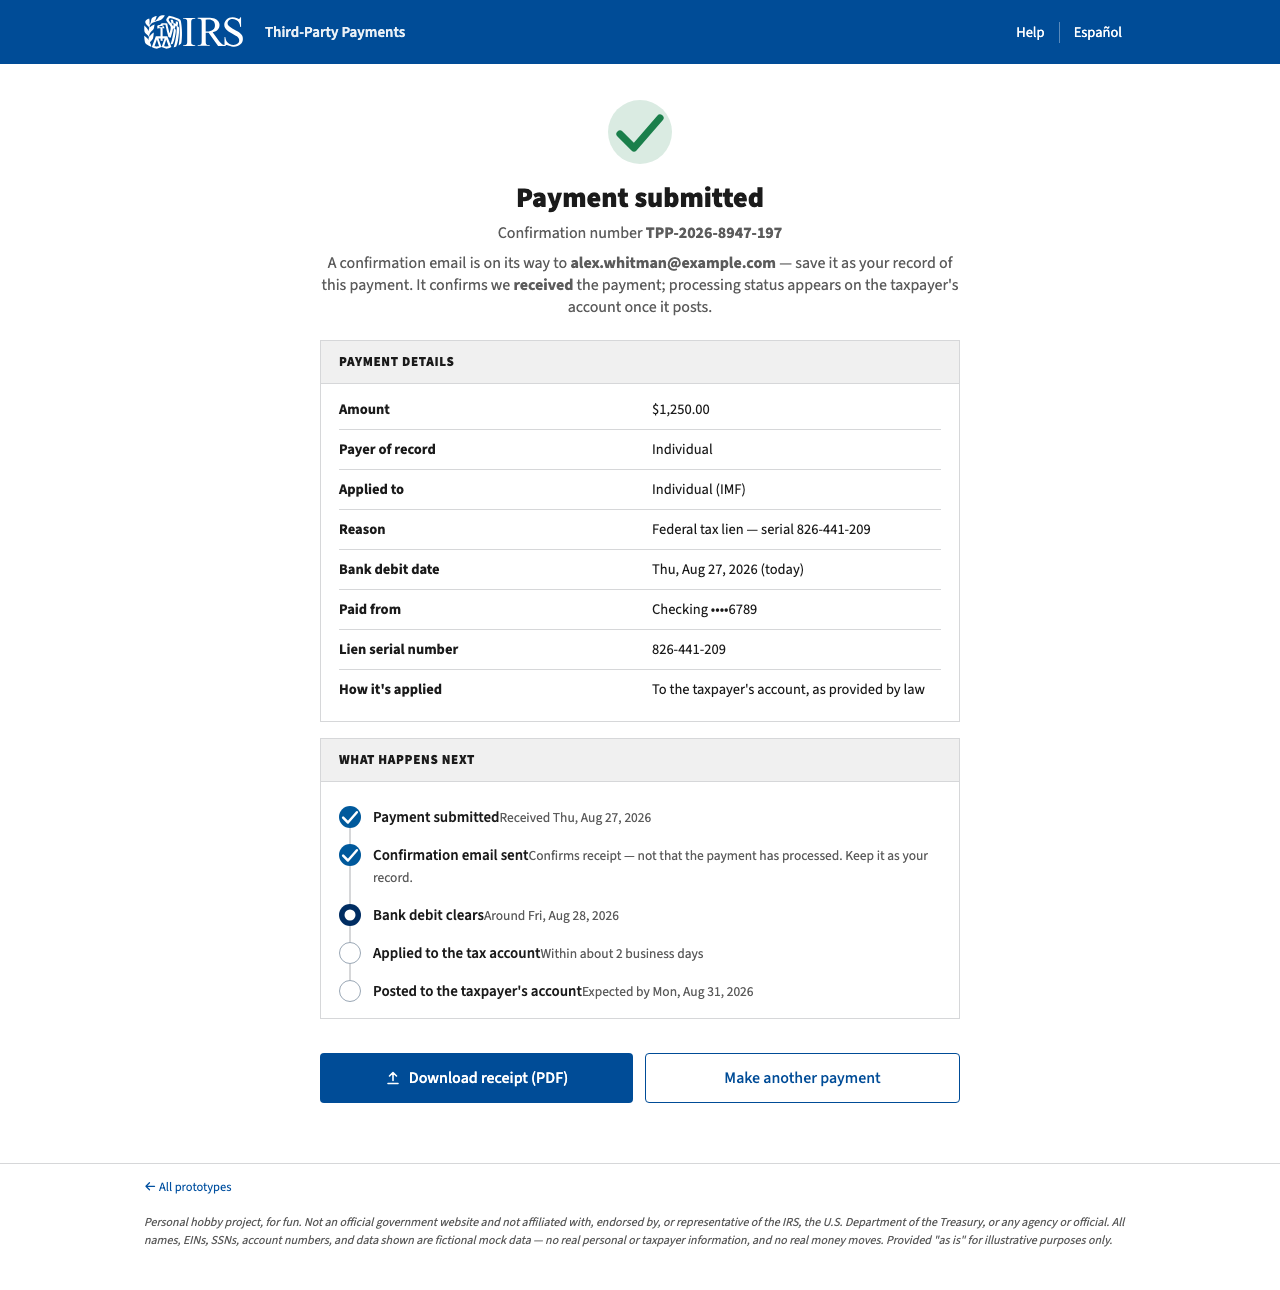
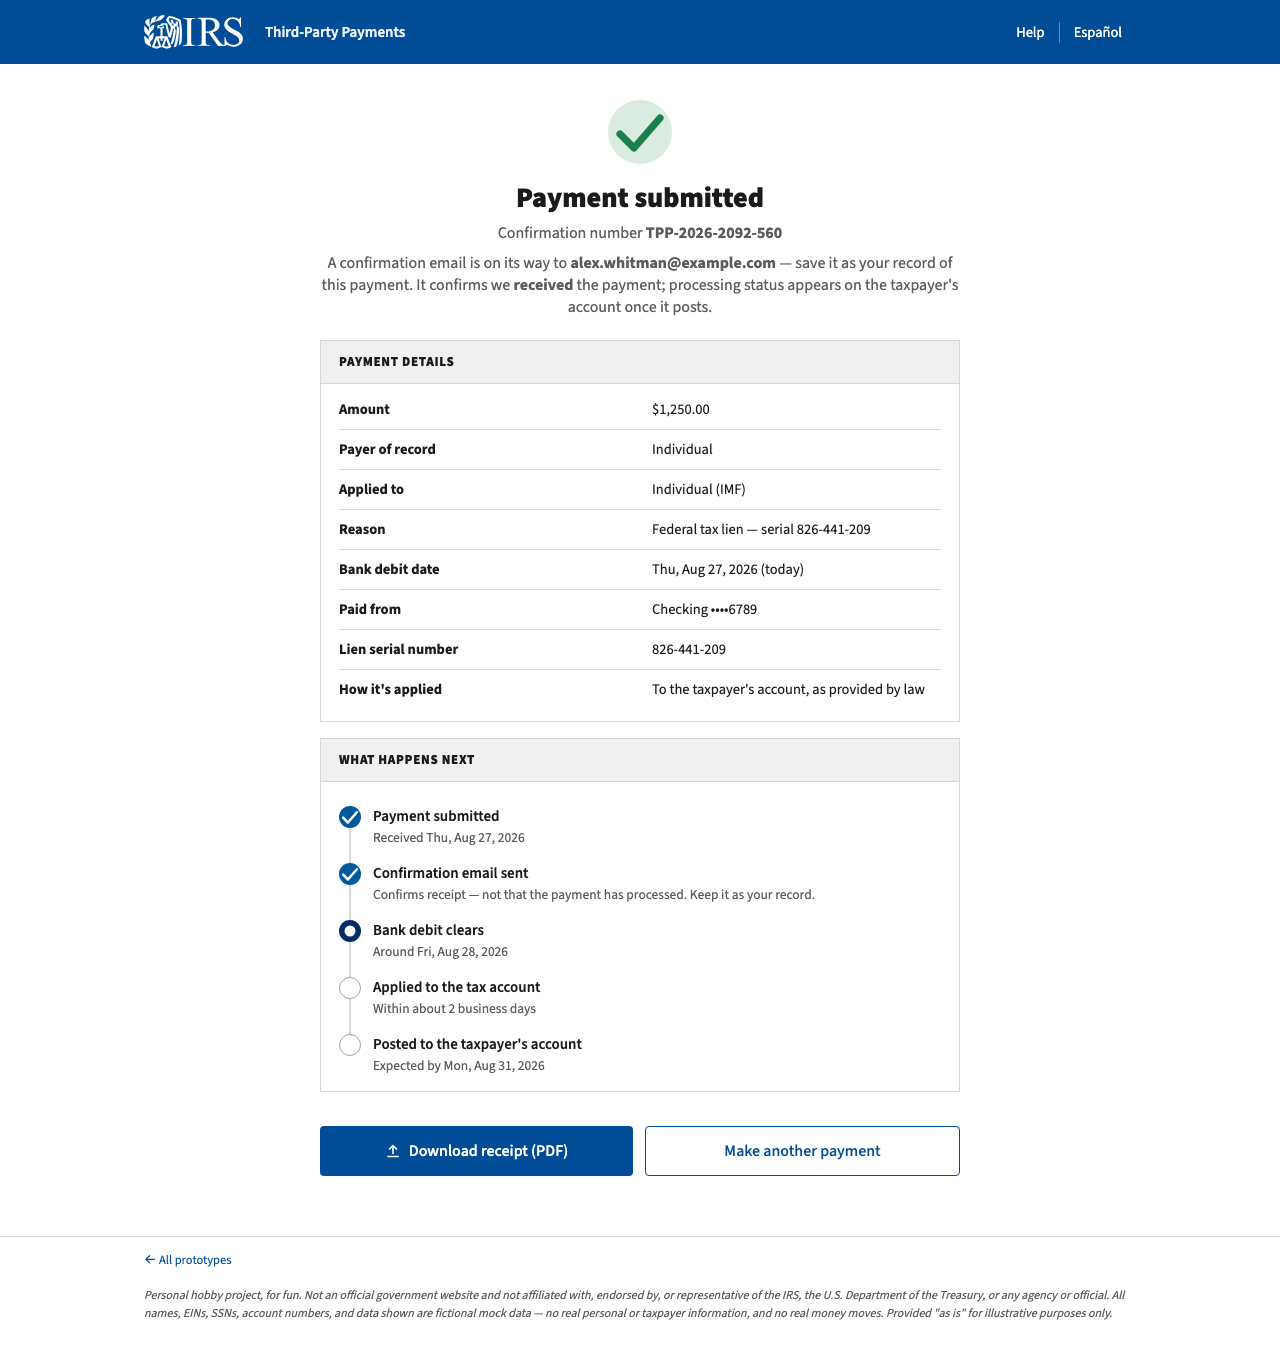
fix: bottom-align grid inputs; stack receipt-track text (visual audit) (#28)
- Controls in grid2/grid3 rows misaligned 20-40px vertically whenever one
  label had a hint and its neighbor didn't (payer name/email, levy
  serial/IRS office, 668-A amount trio, lien serial/date). Grid fields are
  now flex columns with margin-top:auto on the control; bounding-box audit
  shows zero delta across all states
- Receipt 'what happens next' titles rendered inline with descriptions
  (.rt/.rd now display:block)
- .shots/25 after-shots regenerated; align-before-* preserved for the diff

diff --git a/third-party-pay/index.html b/third-party-pay/index.html
@@ -83,6 +83,9 @@
   .field input:focus,.field select:focus{outline:2px solid rgba(0,76,151,.35);border-color:var(--irs-blue)}
   .grid2{display:grid;grid-template-columns:1fr 1fr;gap:14px}
   .grid3{display:grid;grid-template-columns:1fr 1fr 1fr;gap:14px}
+  /* controls in a grid row bottom-align even when one label carries a taller hint */
+  .grid2 > .field,.grid3 > .field{display:flex;flex-direction:column}
+  .grid2 > .field > input,.grid2 > .field > select,.grid3 > .field > input,.grid3 > .field > select{margin-top:auto}
   @media(max-width:560px){.grid2,.grid3{grid-template-columns:1fr}}
 
   /* payer-type segmented (3-way) */
@@ -169,8 +172,8 @@
   .rstep.done .rdot{background:#00599C;color:#fff}
   .rstep.current .rdot{background:#002D62;color:#fff}
   .rstep.pending .rdot{background:var(--surface);color:var(--muted);border:1px solid var(--line-strong)}
-  .rstep .rt{font-weight:600;font-size:15px}
-  .rstep .rd{font-size:13.5px;color:var(--muted);margin-top:1px}
+  .rstep .rt{display:block;font-weight:600;font-size:15px}
+  .rstep .rd{display:block;font-size:13.5px;color:var(--muted);margin-top:1px}
 
   footer{border-top:1px solid var(--line);margin-top:30px}
   .foot-nav{padding:14px 16px 0;font-size:12.5px}

diff --git a/docs/ux-log.md b/docs/ux-log.md
@@ -223,3 +223,18 @@ history keeps them).
   accept any amount with no overpayment messaging, no history/scheduling,
   guest flow, both copy edits, numeric-only TINs, required-field marking).
   Standing by for Collection's levy-response language.
+
+## 2026-08-27 — visual audit: input alignment + text kissing
+
+- **Grid inputs now bottom-align.** Wherever one label carried a hint and its
+  row-mate didn't (payer name/email, levy serial/IRS office, the 668-A
+  attached/sending/holding trio, lien serial/date), the controls sat 20–40px
+  apart vertically. Grid fields are now flex columns with the control pushed
+  to the bottom, so every input in a row sits on the same line regardless of
+  hint height. Verified programmatically (bounding-box deltas = 0 across all
+  payer types, 668-A/W, and lien states).
+- **Receipt track text was kissing.** `.rt`/`.rd` rendered inline, so step
+  titles ran into their descriptions ("Payment submittedReceived Thu…").
+  Both are now block-level and stack.
+- The negative-margin hint pull-ups measure an 8px visual gap (by design);
+  mobile single-column and dark mode unaffected.
